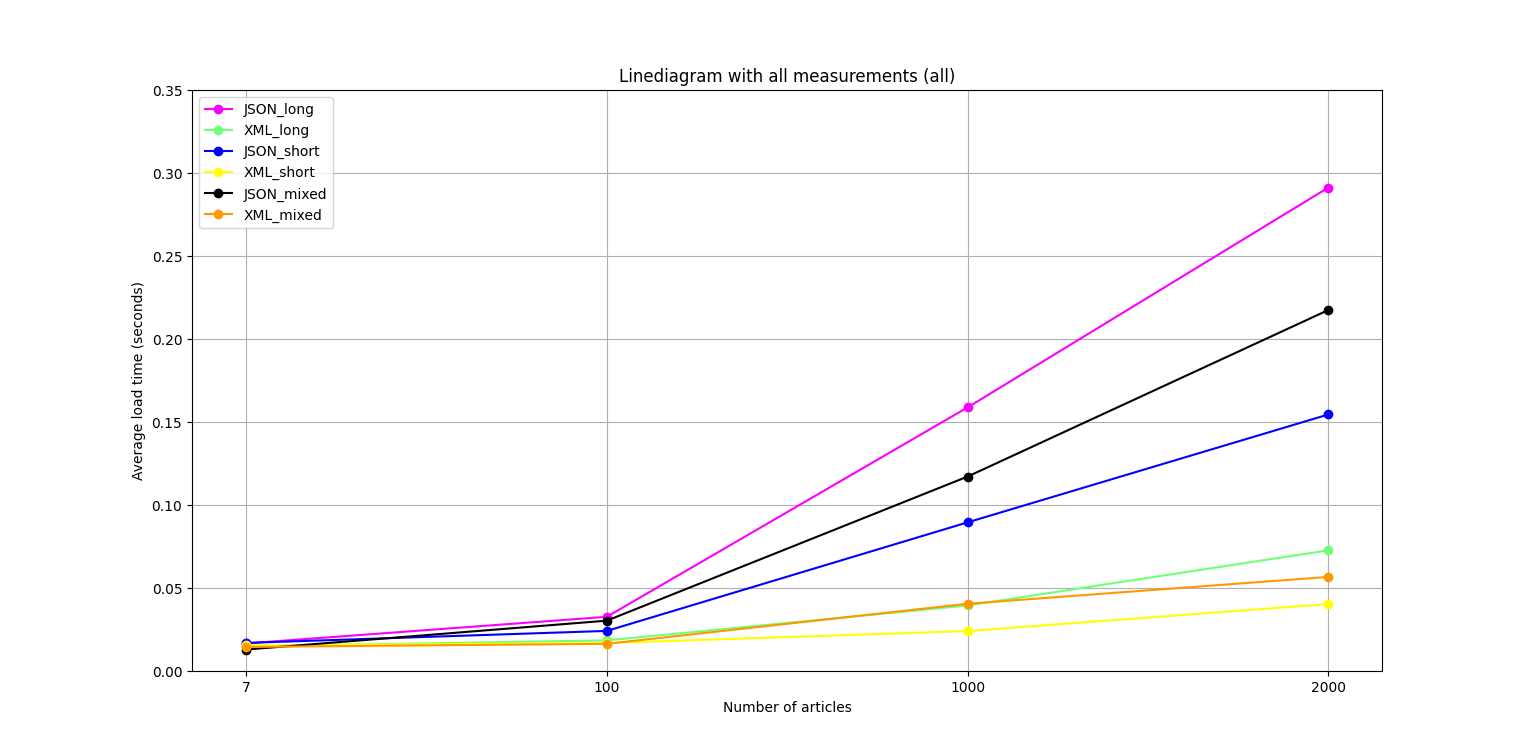
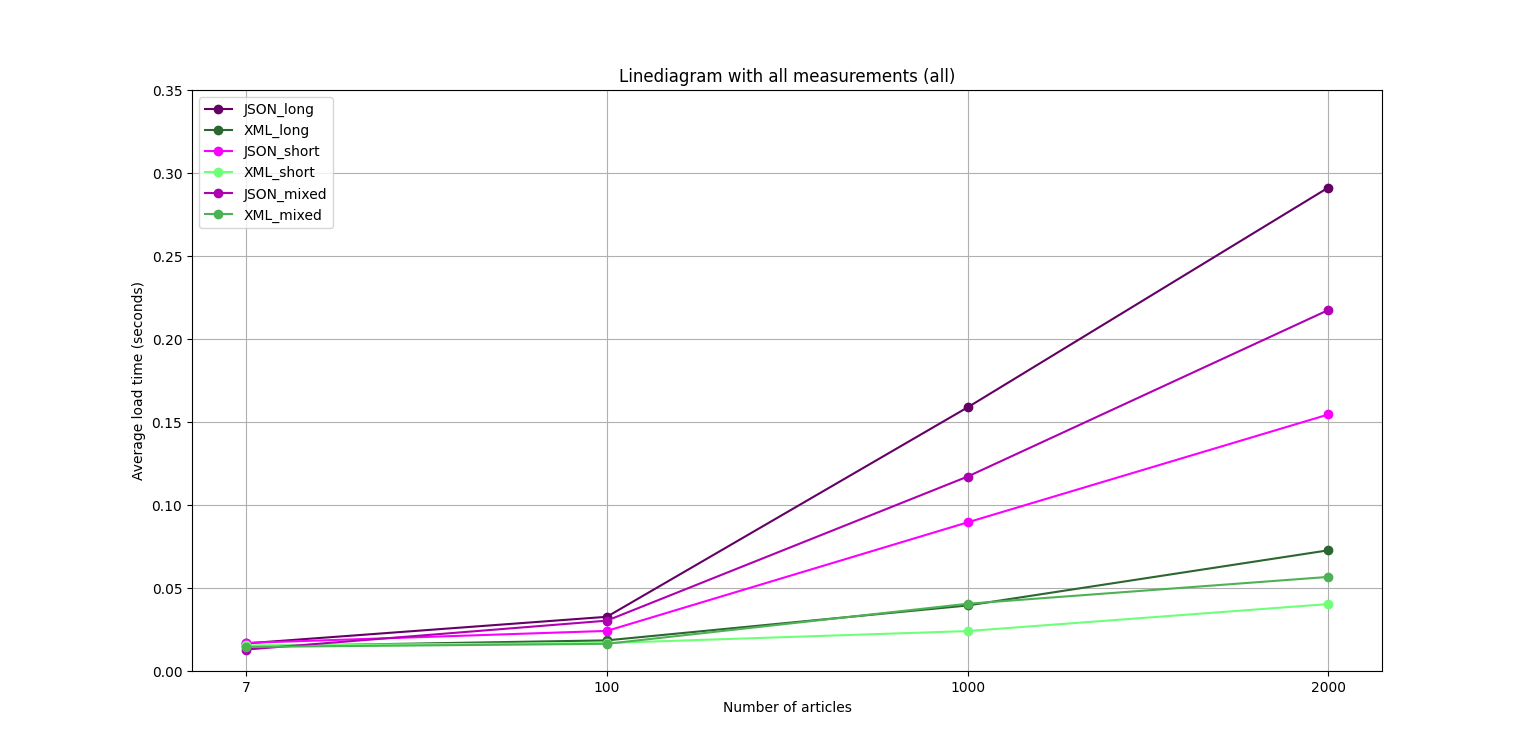
Updated linediagram (all)

diff --git a/PythonScripts/linediagrams/linediagram(all).py b/PythonScripts/linediagrams/linediagram(all).py
@@ -41,7 +41,7 @@ def linechart():
     x_values = ["7", "100", "1000", "2000"]
 
     # Colors for JSON and XML lines
-    colors = ["#fA00ff", "#6fff79", "#00f", "#ff0", "#000", "#f90"]
+    colors = ["#640066", "#2C6630", "#fA00ff", "#6fff79", "#AF00B2", "#4DB254"]
 
     # Plot lines for JSON and XML data
     plt.plot(x_values, json_lines_data_long, marker='o', color=colors[0], label='JSON_long')
